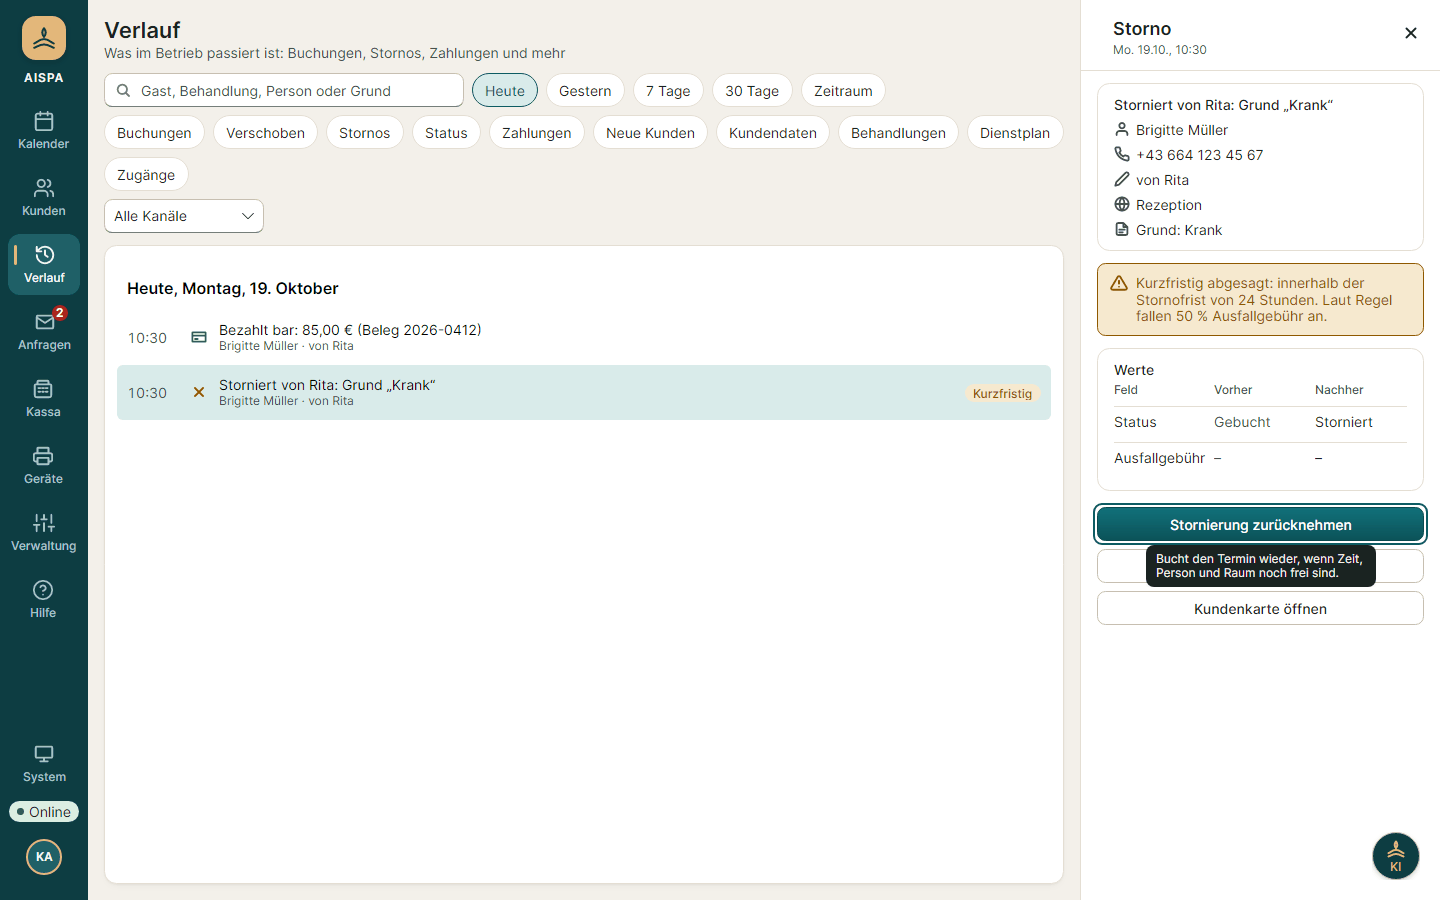
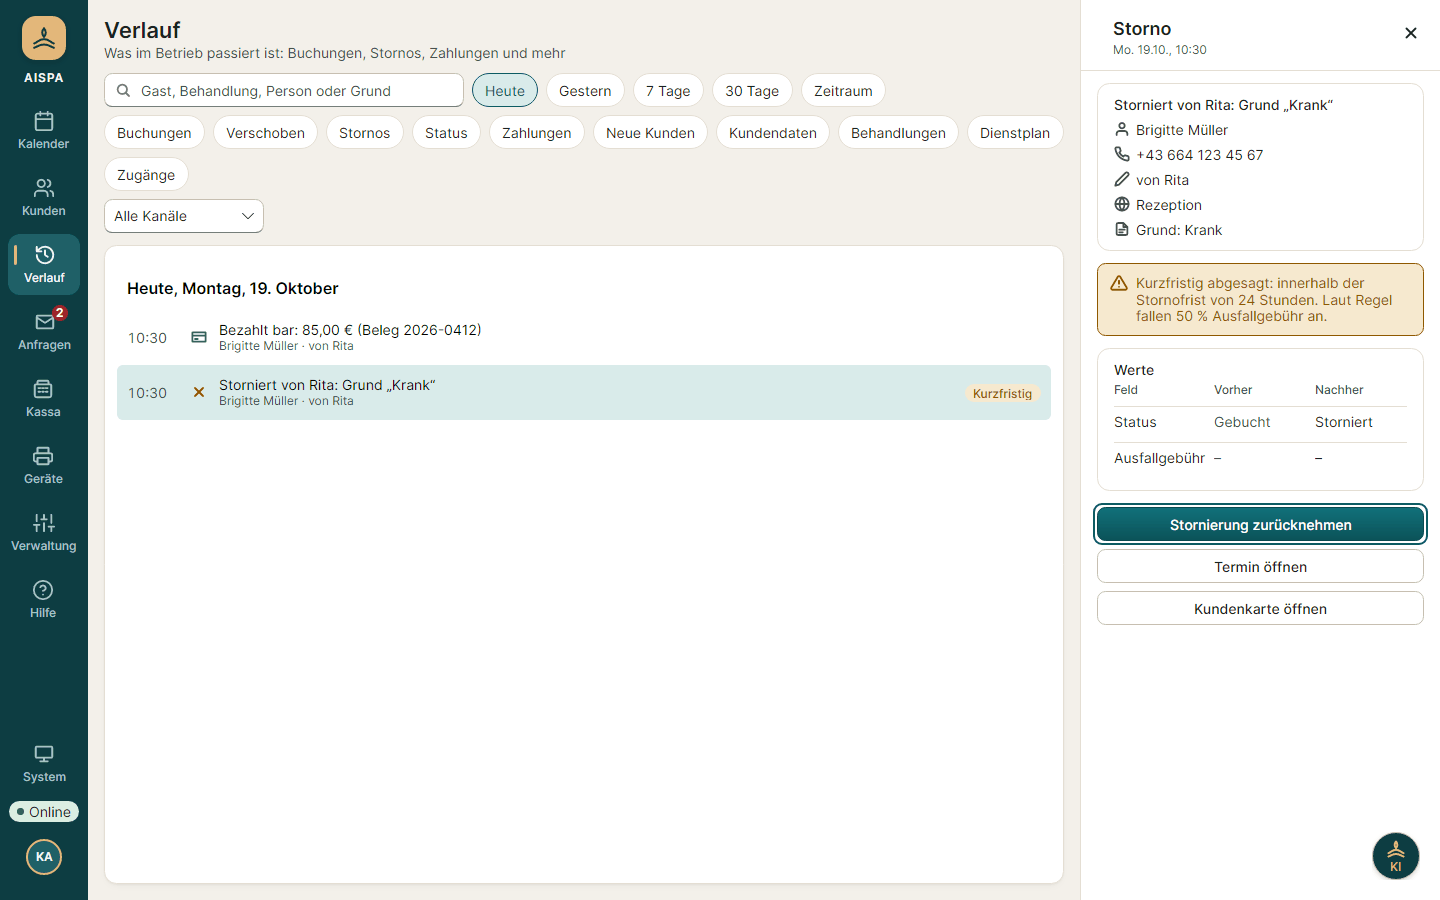
Verlauf G: Handbuchbild Storno-Panel ohne verdeckenden Tooltip

Changed region(s): [[0.7812, 0.5911, 0.9688, 0.6533]]

diff --git a/tests/AispaStudio.Desktop.Tests/ViewTests.ActivityPanel.cs b/tests/AispaStudio.Desktop.Tests/ViewTests.ActivityPanel.cs
@@ -63,6 +63,10 @@ public sealed partial class ViewTests
         Assert.Equal("Stornierung zurücknehmen", Label(Assert.Single(VisiblePrimaries(panel))));
         Assert.True(Named<Button>(panel, "RestoreButton").IsEnabled);
         Assert.Equal(["Stornierung zurücknehmen", "Termin öffnen", "Kundenkarte öffnen"], panel.GetVisualDescendants().OfType<Button>().Where(b => b.IsEffectivelyVisible && b.Name is not null).Select(Label));
+        // Für das Handbuchbild: der Tooltip des fokussierten Primärknopfs verdeckt sonst „Termin öffnen“.
+        var restore = Named<Button>(panel, "RestoreButton");
+        ToolTip.SetIsOpen(restore, false);
+        Assert.False(ToolTip.GetIsOpen(restore));
         return shell.Calendar;
     }, PanelApi());
 

diff --git a/docs/umsetzung/pr-protokoll.md b/docs/umsetzung/pr-protokoll.md
@@ -5749,3 +5749,8 @@ Auftraggeber (23.10.2026): „Räume sollen wie Urlaub auch gesperrt werden kön
 - **Geprüft:** API-Testklasse `ActivityFeedTests` 12/12, Web-Hilfetests 61/61.
 - **Nicht geprüft:** Gesamtlauf (folgt am Ende), Darstellung in der laufenden App.
 - **Datenschutz (Prüfung „gelöschter Gast“):** Es gibt heute weder einen Löschpfad für Gäste noch eine Löschmarke; Belege halten den Gast per `Restrict`. Der Auftraggeber hat festgelegt: nur Anonymisieren plus weiches Löschen, Aufbewahrungsfristen (BAO, RKSV) mitdenken und den Spielraum zum Aufbewahren voll nutzen. Das ist eine eigene Aufgabe außerhalb dieses Branches; Zahlungssätze lesen den Gastnamen beim Lesen und zeigen nach einem Anonymisieren von selbst den Platzhalter.
+
+## Verlauf G: Handbuchbild „verlauf-panel-storno“ ohne Tooltip (10.11.2026)
+
+- **Was:** Der Bildtest `Verlauf_Panel_Storno_zeigt…` schließt den Tooltip des fokussierten Primärknopfs (`ToolTip.SetIsOpen(false)`, mit Assert), das Bild ist neu erzeugt und verkleinert (116 kB → 44 kB). Damit ist der Punkt aus „Nicht geprüft“ von Verlauf D erledigt: „Termin öffnen“ ist im Bild zu sehen.
+- **Geprüft:** Test grün (2 von 2, hell und dunkel), Bild angesehen.
